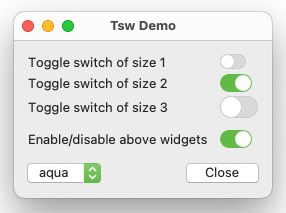
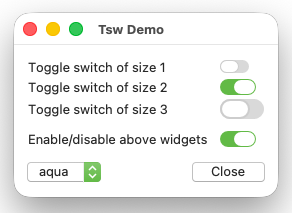
Tsw: Added explicit support for the toggleswitch element shapes and colors specific to macOS 26 (Tahoe).

diff --git a/modules/tsw/doc/toggleswitch.html b/modules/tsw/doc/toggleswitch.html
@@ -170,12 +170,13 @@
     <b>trough</b> and a <b>slider</b>, just like a ttk::scale widget.&nbsp;
     Actually, these elements belong to a ttk::scale contained in the
     widget.&nbsp; The trough is a fully rounded filled rectangle, and the
-    slider is a filled circle contained in the trough.&nbsp; Both elements are
-    rendered using scaling-aware SVG images.&nbsp; Their dimensions depend on
-    the value of the <code><b><a href="#size">-size</a></b></code>
-    configuration option, the current theme, the display's scaling level, and
-    Tk's scaling factor given by&nbsp; <code><b>[tk scaling]</b></code>&nbsp;
-    at the time the first toggleswitch widget is created.</dd>
+    slider is a filled circle or fully rounded filled rectangle contained in
+    the trough.&nbsp; Both elements are rendered using scaling-aware SVG
+    images.&nbsp; Their dimensions depend on the value of the
+    <code><b><a href="#size">-size</a></b></code> configuration option, the
+    current theme, the display's scaling level, and Tk's scaling factor given
+    by&nbsp; <code><b>[tk scaling]</b></code>&nbsp; at the time the first
+    toggleswitch widget is created.</dd>
 
     <dd class="tm">Just like a light switch, a toggleswitch widget can have one
     of two possible <b>switch state</b>s: on or off.&nbsp; In the on state the
@@ -325,19 +326,21 @@
         <code><b>2</b></code> (the default), and <code><b>3</b></code>.&nbsp;
         If the current theme is <code><b>aqua</b></code> then these size IDs
         correspond to the control sizes "mini", "small", and "large" of the
-        native toggle switches on macOS.&nbsp; The value <code><b>1</b></code>
-        stands for the trough size of 26 x 15 pixels, the value
-        <code><b>2</b></code> for the trough size of 32 x 18 pixels, and the
-        value <code><b>3</b></code> identifies the trough size of 38 x 22
-        pixels.&nbsp; For all the other themes, on an unscaled screen the value
-        <code><b>1</b></code> stands for the trough size of 32 x 16 pixels, the
-        value <code><b>2</b></code> for the trough size of 40 x 20 pixels, and
-        the value <code><b>3</b></code> identifies the trough size of 48 x 24
-        pixels, except that on Windows 10 and earlier, for the themes
-        <code><b>vista</b></code>, <code><b>winnative</b></code>, and
-        <code><b>xpnative</b></code> the unscaled trough width is 35, 44, and
-        53 pixels, respectively (for compatibility with the native toggle
-        switch).</p>
+        native toggle switches on macOS.&nbsp; For macOS versions 15 (Sequoia)
+	and earlier the value <code><b>1</b></code> stands for the trough size
+	of 26 x 15 pixels, the value <code><b>2</b></code> for the trough size
+	of 32 x 18 pixels, and the value <code><b>3</b></code> identifies the
+	trough size of 38 x 22 pixels.&nbsp; Starting with macOS 26 (Tahoe),
+	the trough sizes are 29 x 13, 36 x 16, and 44 x 20 pixels,
+	respectively.&nbsp; For all the other themes, on an unscaled screen the
+	value <code><b>1</b></code> stands for the trough size of 32 x 16
+	pixels, the value <code><b>2</b></code> for the trough size of 40 x 20
+	pixels, and the value <code><b>3</b></code> identifies the trough size
+	of 48 x 24 pixels, except that on Windows 10 and earlier, for
+	compatibility with the native toggle switch, for the themes
+	<code><b>vista</b></code>, <code><b>winnative</b></code>, and
+	<code><b>xpnative</b></code> the unscaled trough width is 35, 44, and
+	53 pixels, respectively.</p>
 
         <p>Note that by setting this option to a value
         <code><i>size</i></code>, the <code><b><a href=

diff --git a/modules/tsw/doc/tsw.html b/modules/tsw/doc/tsw.html
@@ -235,7 +235,7 @@ namespace import tsw::toggleswitch
         "213"></td>
         <td><img src="TswDemo_aqua_dark.png" alt="Tsw Demo" width="286" height=
         "213"></td>
-        <td><img src="TswDemo_aqua_green.png" alt="Tsw Demo" width="286"
+        <td><img src="TswDemo_aqua_green.png" alt="Tsw Demo" width="292"
         height="213"></td>
       </tr>
 
@@ -292,7 +292,8 @@ $sw4 configure -command [list toggleWidgetsState $sw4]</span>
   default value <code>2</code>.&nbsp; As seen in the screenshots, in the case
   of the <code>aqua</code> theme the colors used when drawing the toggleswitch
   widgets also depend on the system appearance (light mode or dark mode) and
-  the accent color.</p>
+  the accent color.&nbsp; Note that the first two screenshots were taken on
+  macOS 15 (Sequoia), while the third one on macOS 26 (Tahoe).</p>
 
   <p>For two of the four toggleswitch widgets we change the switch state from
   the default value <code>0</code> (off) to <code>1</code> (on) by invoking the
